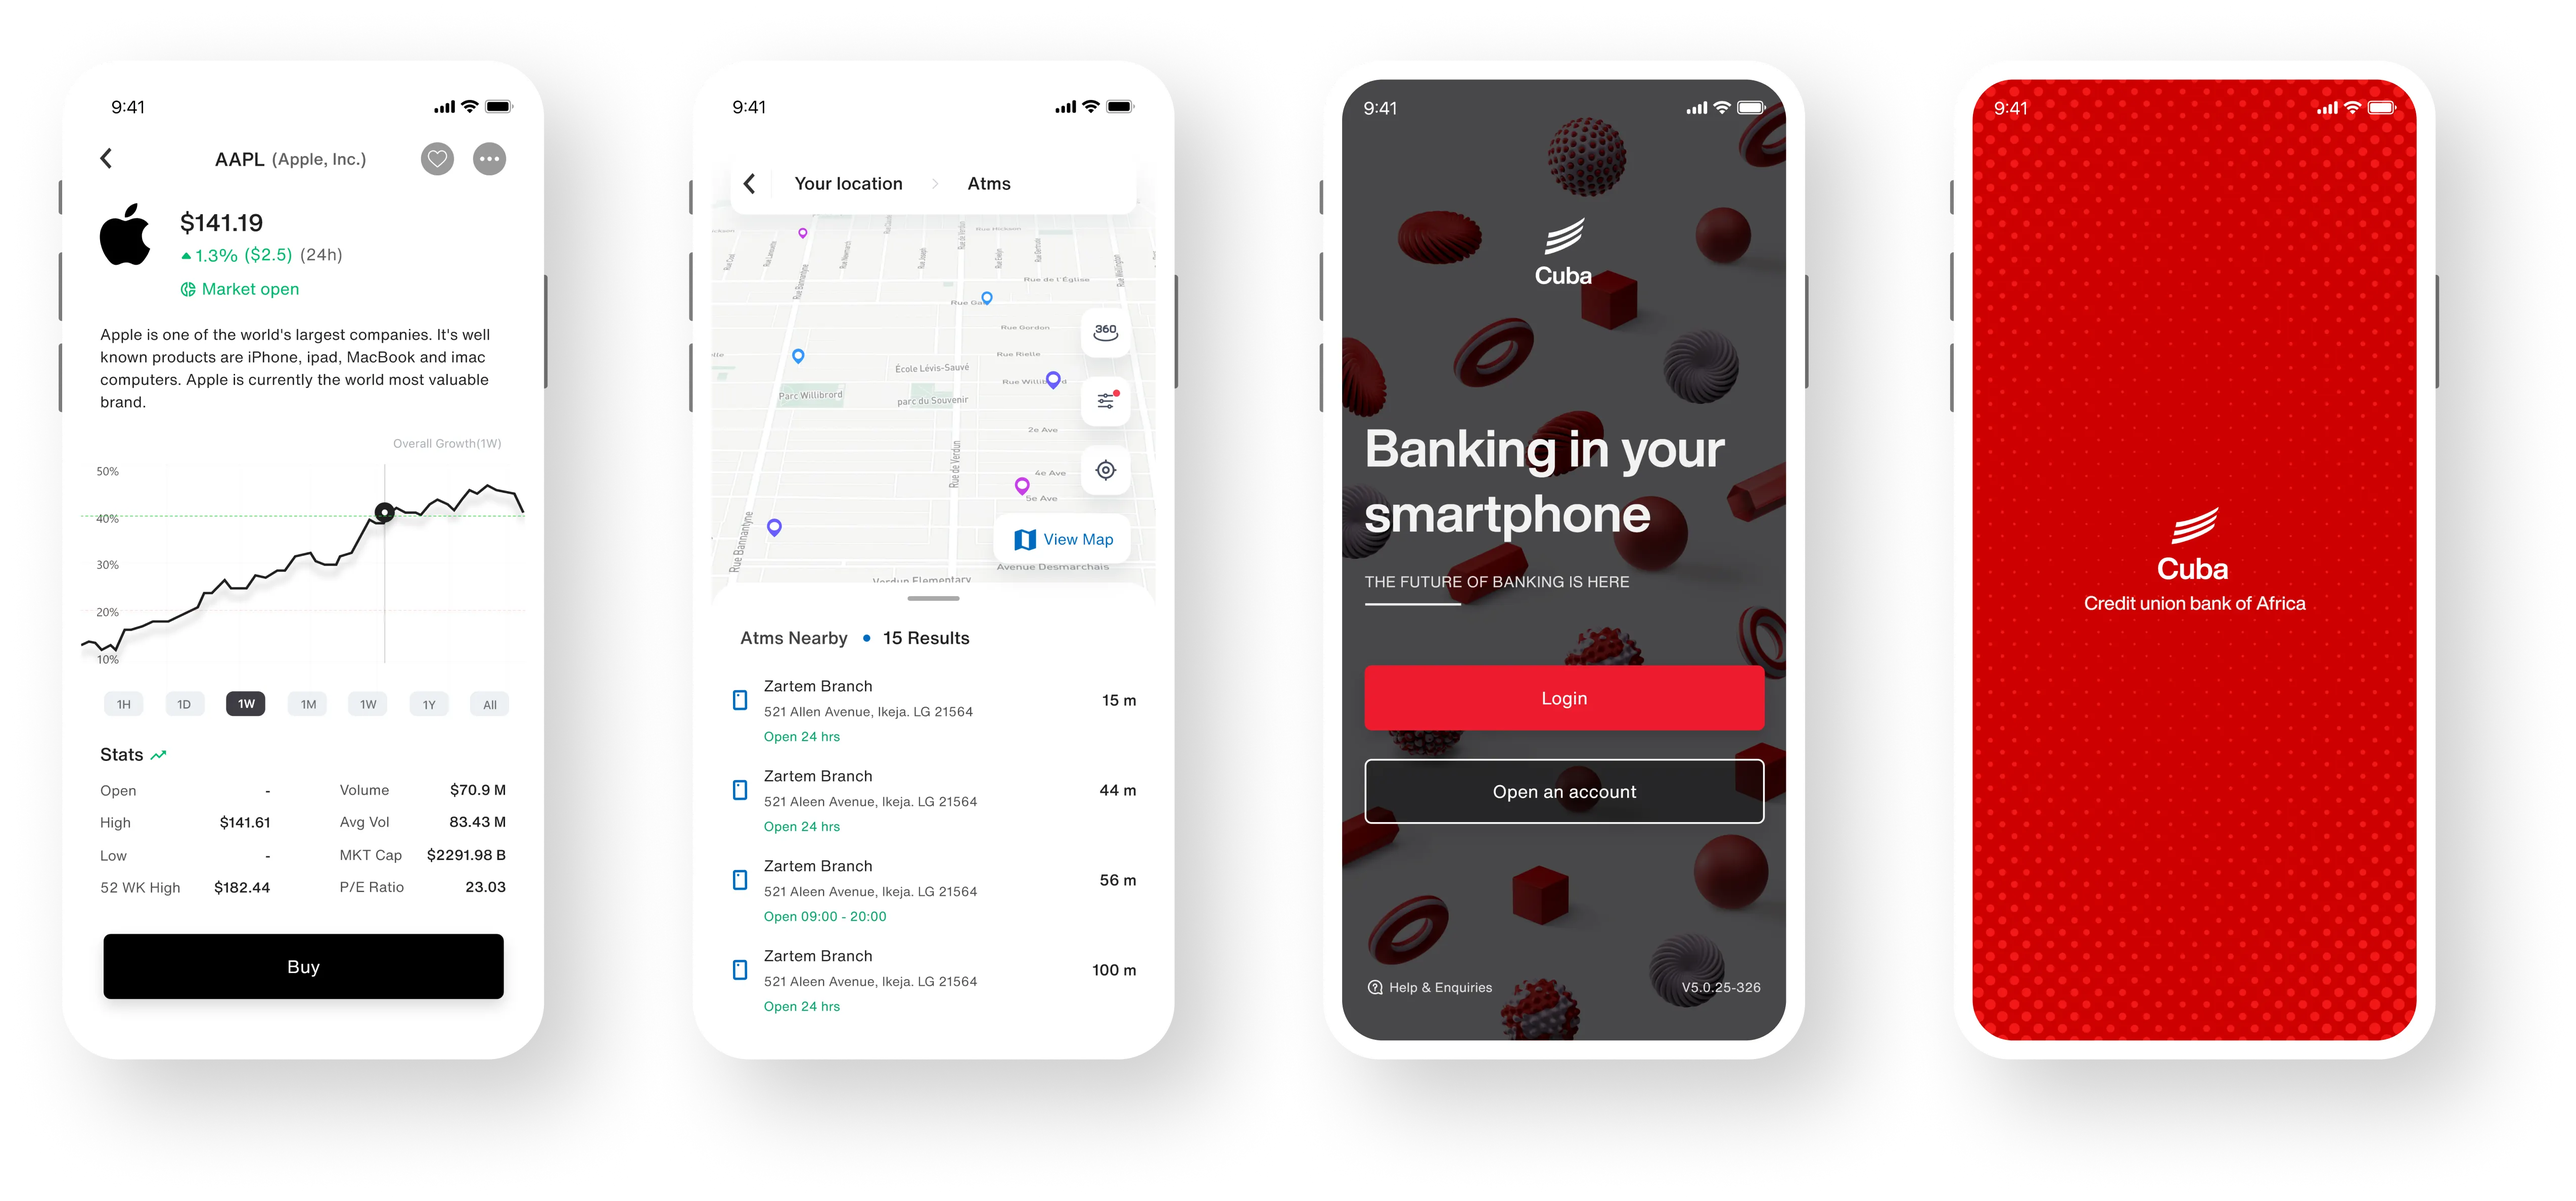
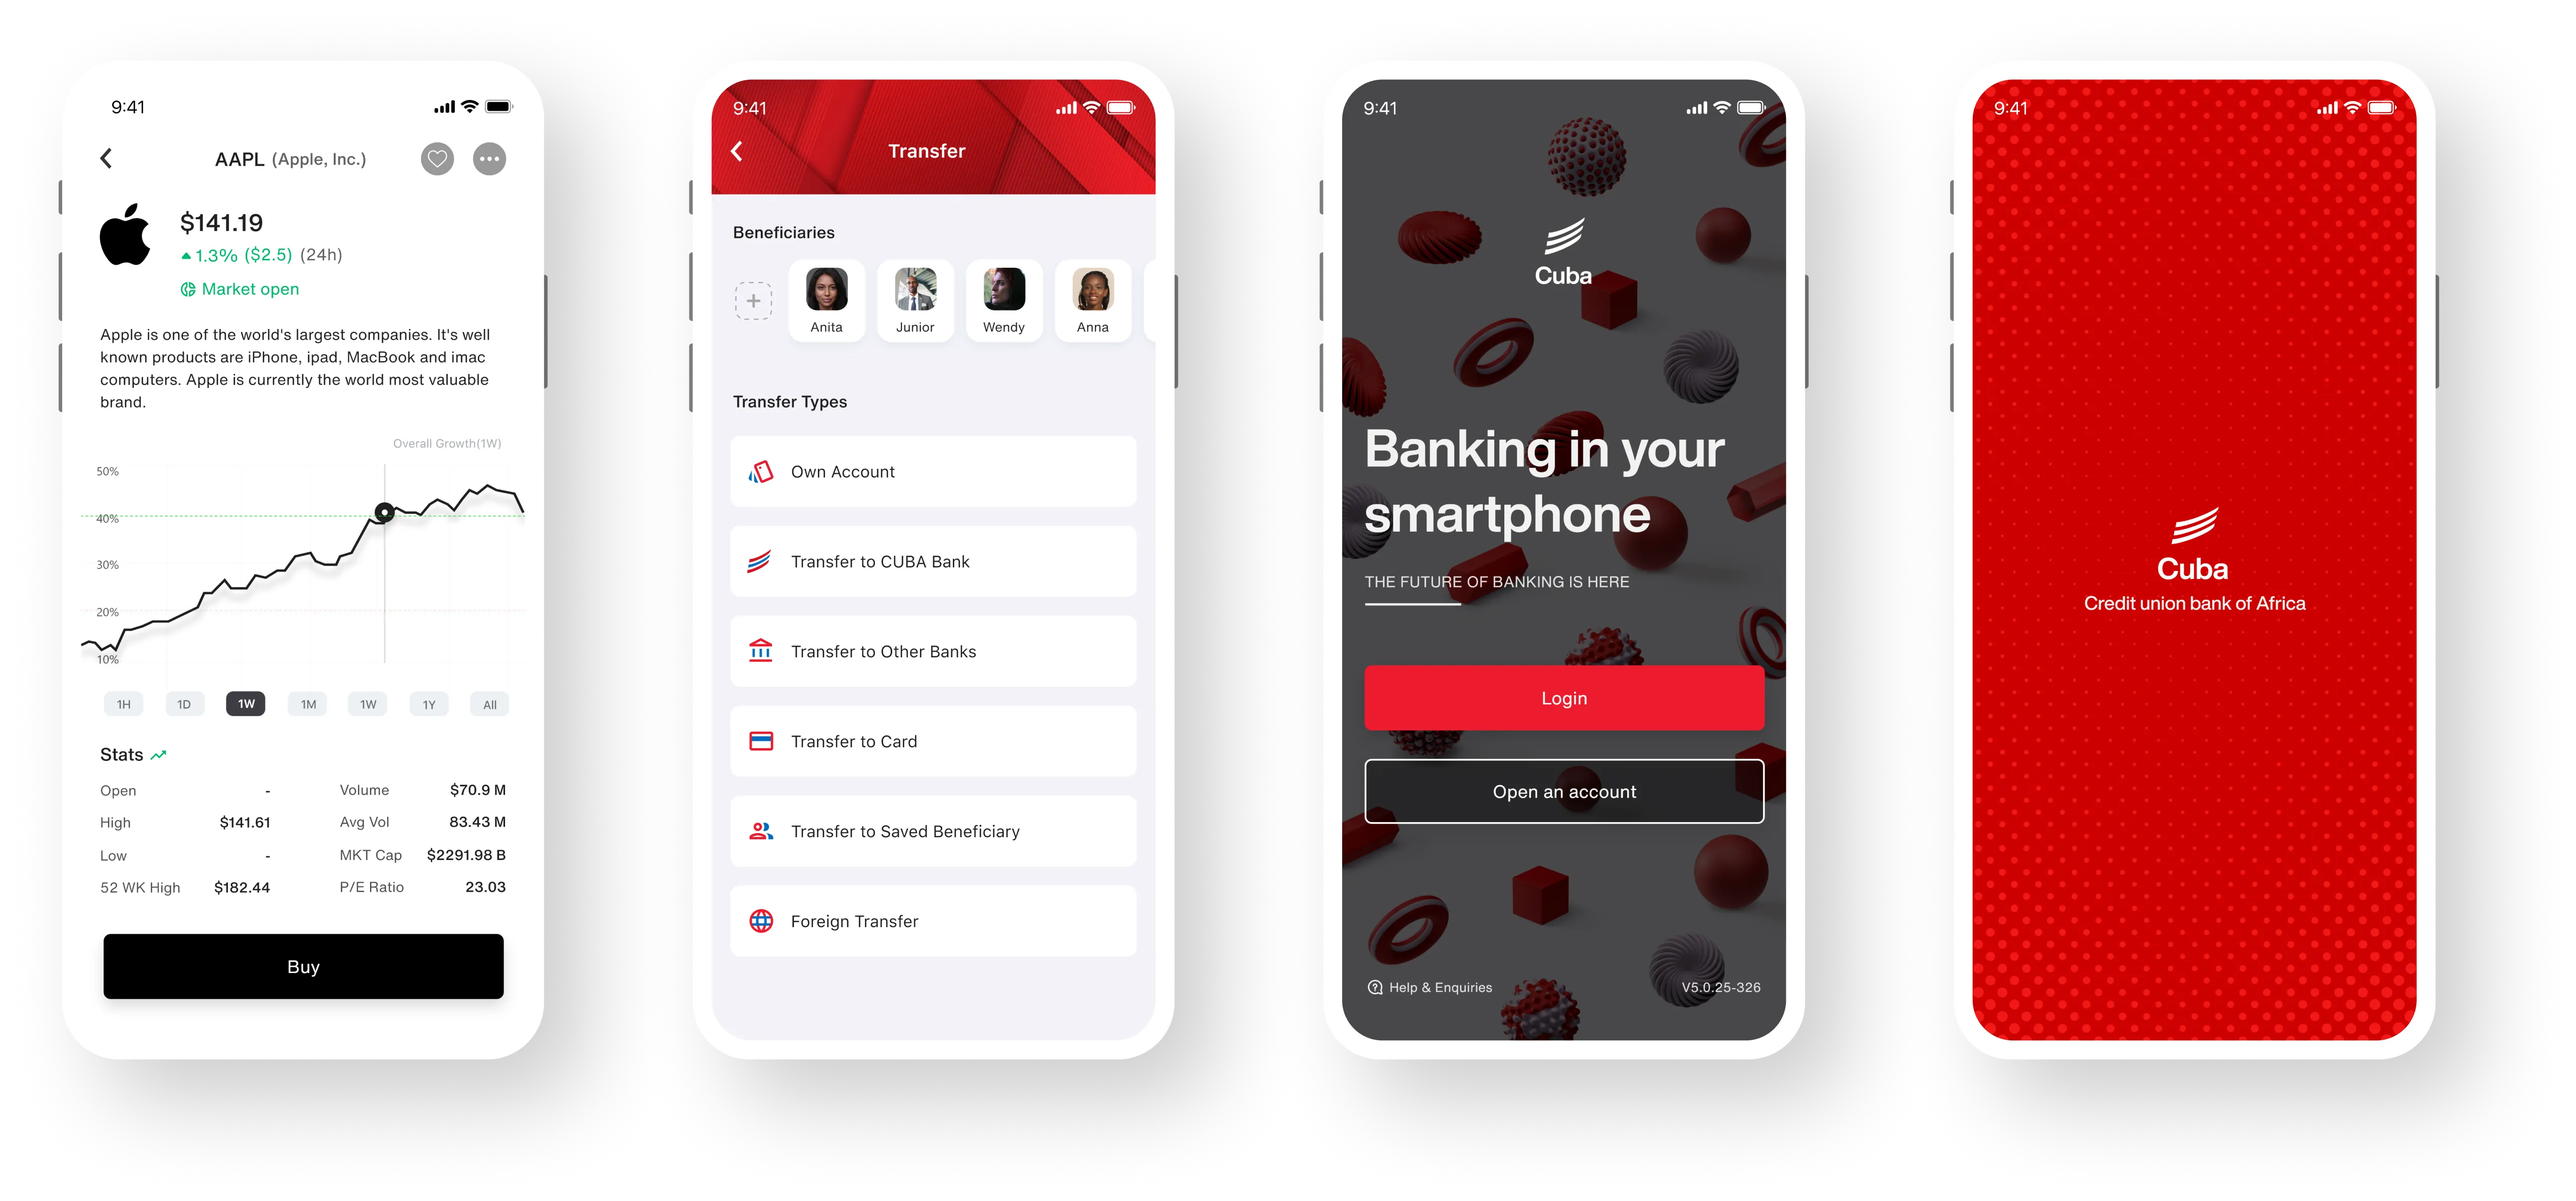
img

diff --git a/cuba.html b/cuba.html
@@ -261,6 +261,9 @@
                 <img class="inspiration-mockup" src="img/other-scrteen-1.webp" alt="">
             </div>
             <div class="inspiration-img-cont">
+                <img class="inspiration-mockup" src="img/other-scrteen-3.webp" alt="">
+            </div>
+            <div class="inspiration-img-cont">
                 <img class="inspiration-mockup" src="img/other-scrteen-2.webp" alt="">
             </div>
         </div>
